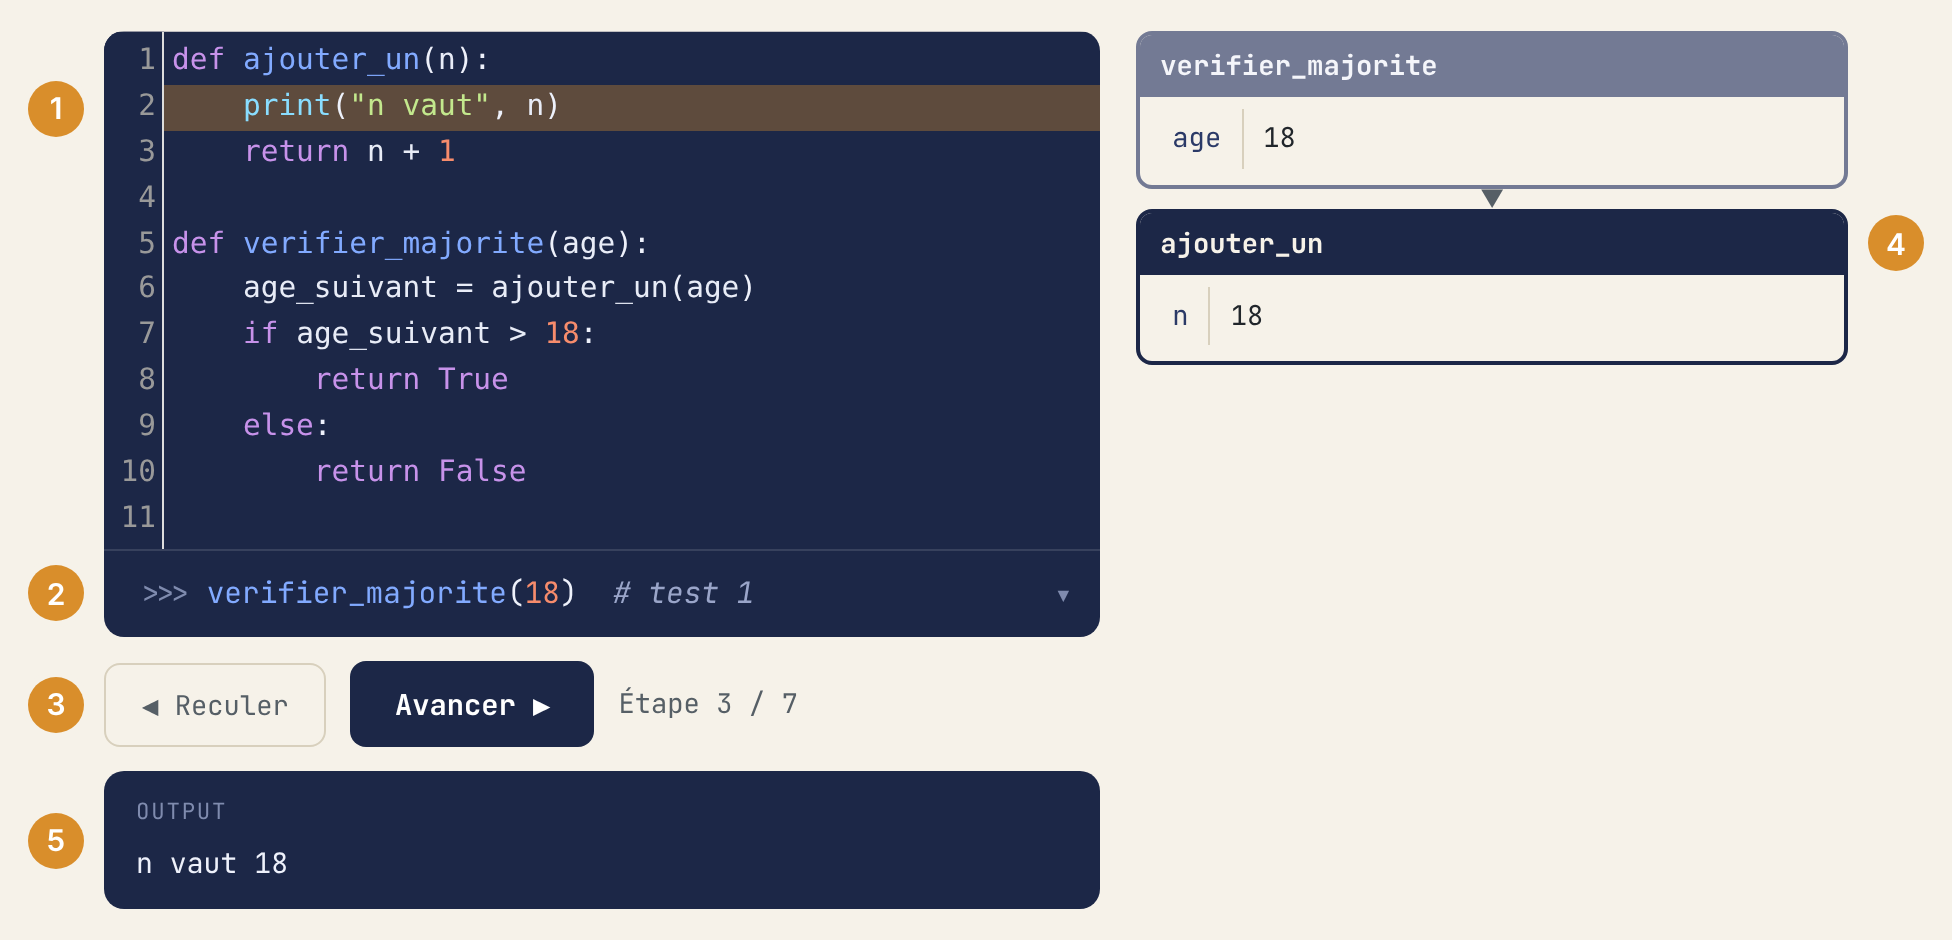
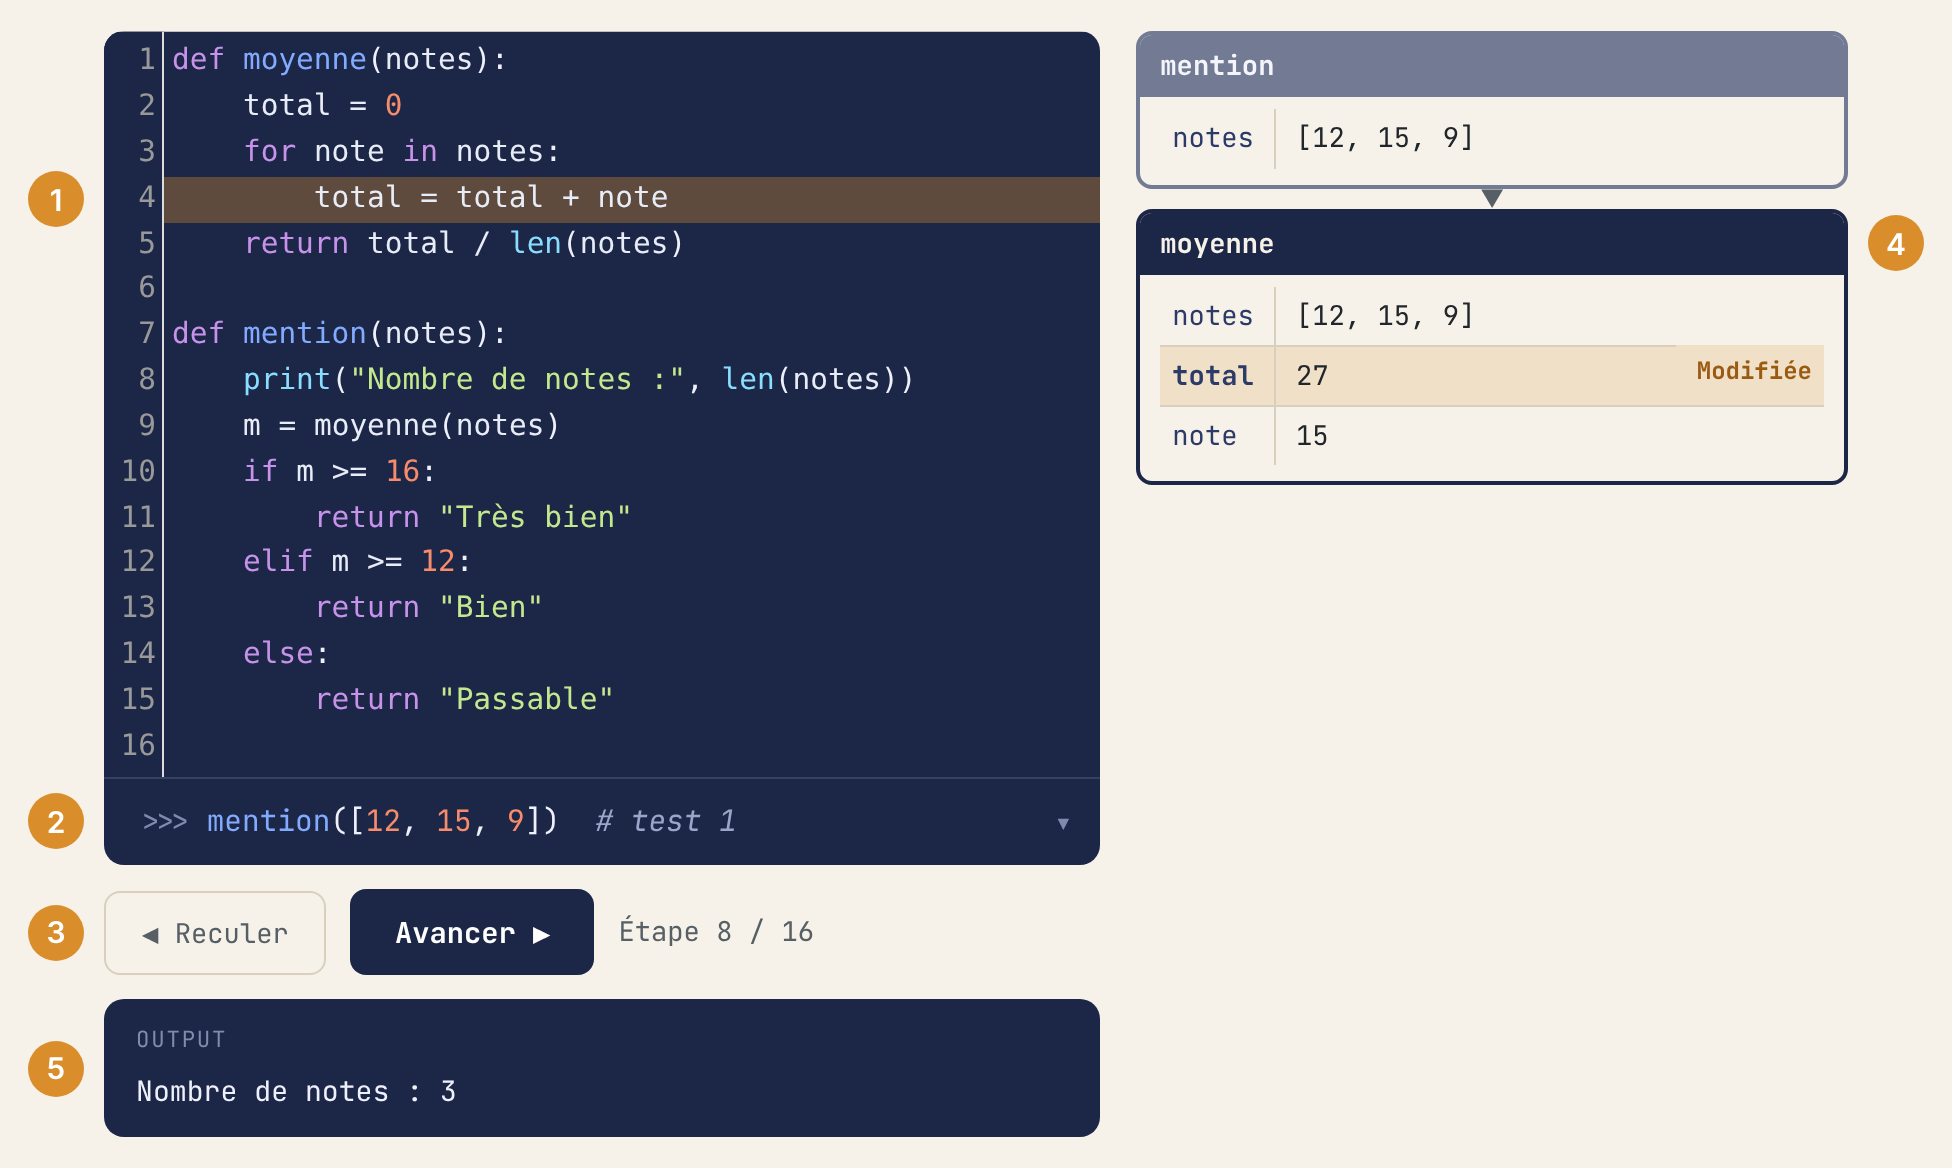
Présentation du pas à pas : nouvel exemple (variable modifiée, plus de variables), section sur les appels retirée, pastilles de légende plus petites
Claude-Session: https://claude.ai/code/session_01HgwaEdWqgUHYNekRUtbiob

Changed region(s): [[0.0, 0.0, 1.0, 0.4319], [0.0, 0.4319, 0.5625, 0.9872], [0.0625, 0.2468, 0.4688, 0.5245]]

diff --git a/templates/exercises/intro_pas_a_pas.html b/templates/exercises/intro_pas_a_pas.html
@@ -15,27 +15,15 @@
   </p>
 
   <figure>
-    <img src="{% static 'img/pas-a-pas/vue-generale.png' %}" width="976" height="470"
-         alt="La page du pas à pas : le code avec la ligne exécutée surlignée, l'appel du test sous le code, les boutons Reculer et Avancer, les cadres de variables à droite et la console en bas.">
+    <img src="{% static 'img/pas-a-pas/vue-generale.png' %}" width="976" height="584"
+         alt="La page du pas à pas : le code avec la ligne exécutée surlignée, l'appel du test sous le code, les boutons Reculer et Avancer, les cadres de variables des fonctions mention et moyenne à droite (total marqué Modifiée) et la console en bas.">
   </figure>
   <ol class="intro-legende">
     <li><strong>La ligne surlignée</strong> est celle qui vient d'être exécutée.</li>
     <li><strong>L'appel du test</strong> qui est exécuté, sous le code. Un clic sur cette ligne permet de choisir un autre test.</li>
     <li><strong>Avancer</strong> exécute la ligne suivante ; <strong>Reculer</strong> revient d'une étape en arrière.</li>
-    <li><strong>Un cadre par fonction</strong> en cours d'exécution, avec ses variables et leur valeur. Le cadre foncé est celui de la fonction qui s'exécute en ce moment ; le triangle ▼ le relie à la fonction qui l'a appelée.</li>
+    <li><strong>Un cadre par fonction</strong> en cours d'exécution, avec ses variables et leur valeur. Le cadre foncé est celui de la fonction qui s'exécute en ce moment ; le triangle ▼ le relie à la fonction qui l'a appelée. Les variables qui viennent d'être <strong>créées</strong> ou <strong>modifiées</strong> sont colorées.</li>
     <li><strong>La console</strong> affiche ce que le programme écrit avec <code>print()</code>, la valeur renvoyée à la fin du test, et l'éventuelle erreur.</li>
-  </ol>
-
-  <h2>Quand une fonction en appelle une autre</h2>
-  <figure>
-    <img src="{% static 'img/pas-a-pas/appel-de-fonction.png' %}" width="976" height="328"
-         alt="Entrée dans une fonction appelée : l'appel ajouter_un(age) et l'en-tête def ajouter_un(n) sont surlignés, et le paramètre n apparaît dans un nouveau cadre, marqué Créée.">
-  </figure>
-  <ol class="intro-legende">
-    <li><strong>L'appel</strong> en cours est surligné…</li>
-    <li>… ainsi que <strong>l'en-tête de la fonction appelée</strong>.</li>
-    <li>Ses paramètres apparaissent dans un nouveau cadre. Les variables qui viennent d'être
-      <strong>créées</strong> ou <strong>modifiées</strong> sont colorées.</li>
   </ol>
 
   <h2>Lancer le pas à pas</h2>
@@ -66,14 +54,14 @@
   .intro-pas-a-pas { max-width: 760px; }
   .intro-pas-a-pas figure { margin: 18px 0 8px; }
   .intro-pas-a-pas img { display: block; width: 100%; height: auto; border-radius: var(--radius); border: 1px solid var(--rule); }
-  .intro-legende { margin: 8px 0 24px; padding-left: 0; list-style: none; counter-reset: legende; }
-  .intro-legende li { position: relative; margin: 6px 0; padding-left: 36px; counter-increment: legende; }
+  .intro-legende { margin: 8px 0 24px 14px; padding-left: 0; list-style: none; counter-reset: legende; }
+  .intro-legende li { position: relative; margin: 6px 0; padding-left: 28px; counter-increment: legende; }
   .intro-legende li::before {
     content: counter(legende);
-    position: absolute; left: 0; top: 0;
-    width: 24px; height: 24px; border-radius: 50%;
+    position: absolute; left: 0; top: .2em;
+    width: 18px; height: 18px; border-radius: 50%;
     background: var(--amber); color: #fff;
-    font: 700 .8rem/24px Inter, sans-serif; text-align: center;
+    font: 700 .68rem/18px Inter, sans-serif; text-align: center;
   }
   .intro-actions { margin: 28px 0 8px; }
 </style>
